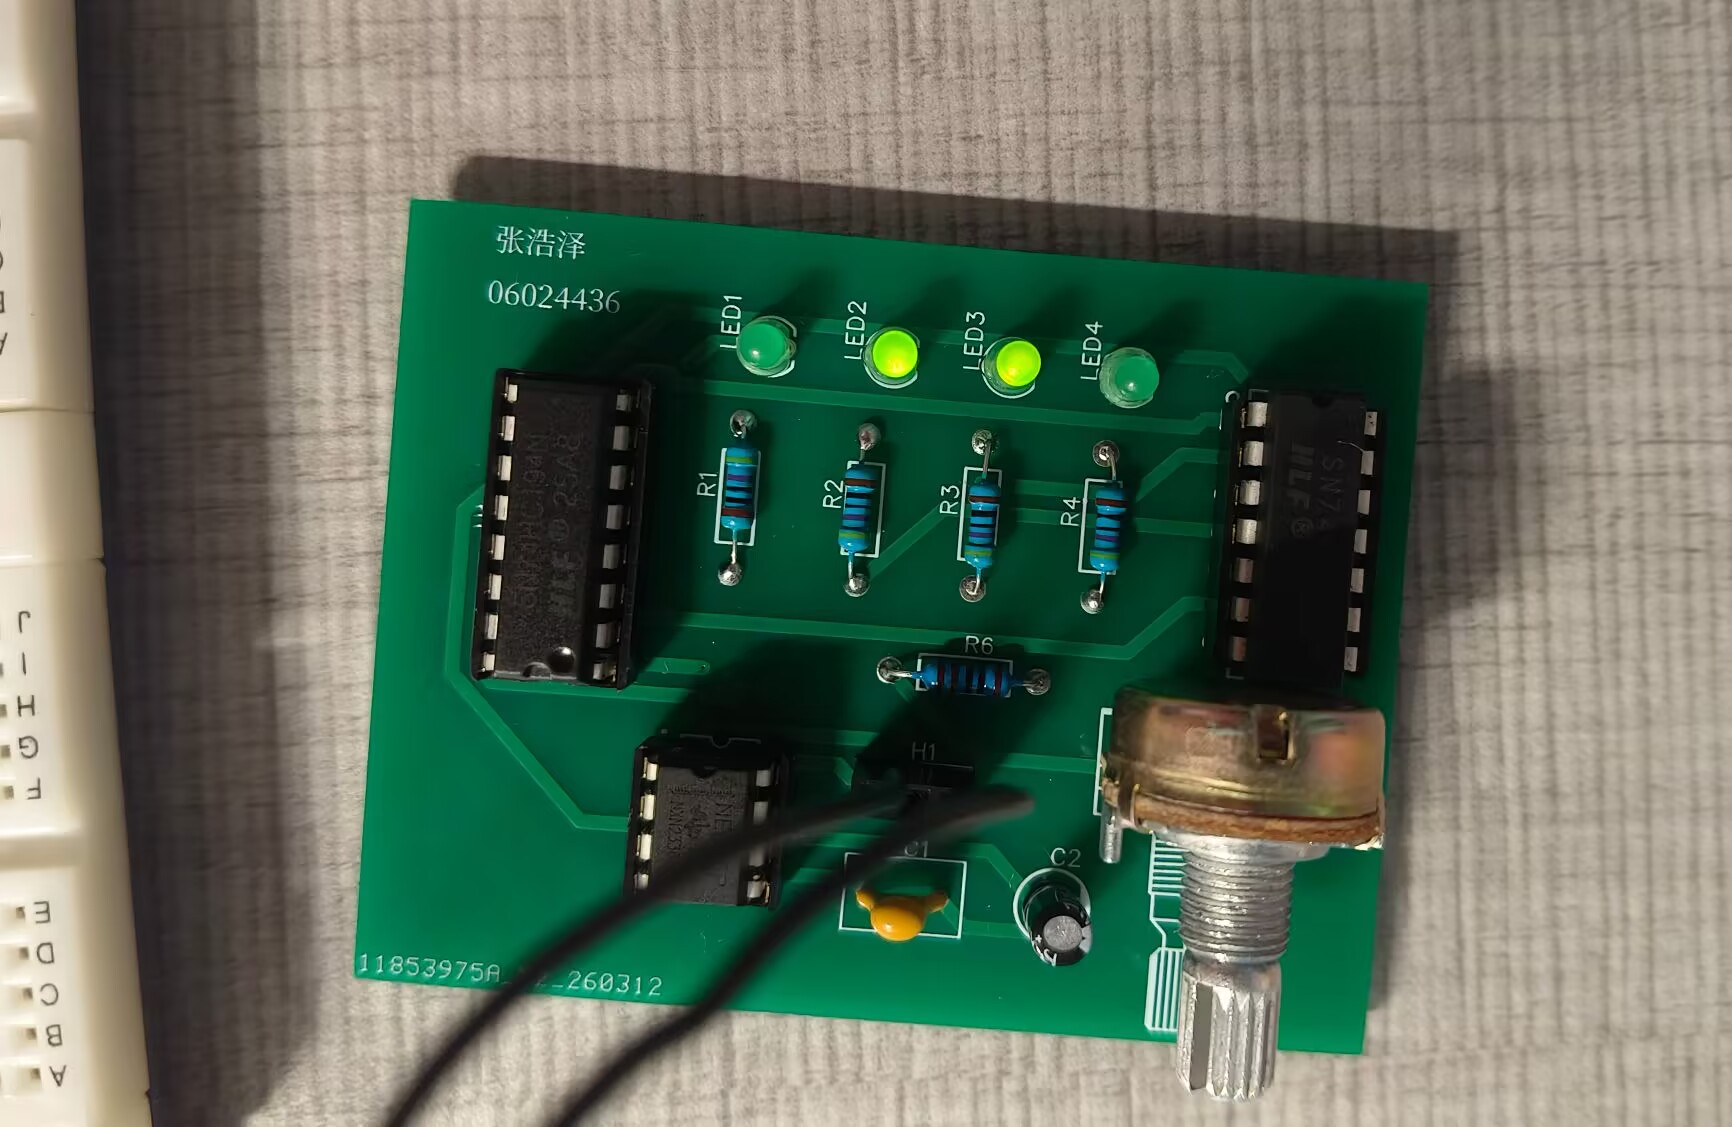
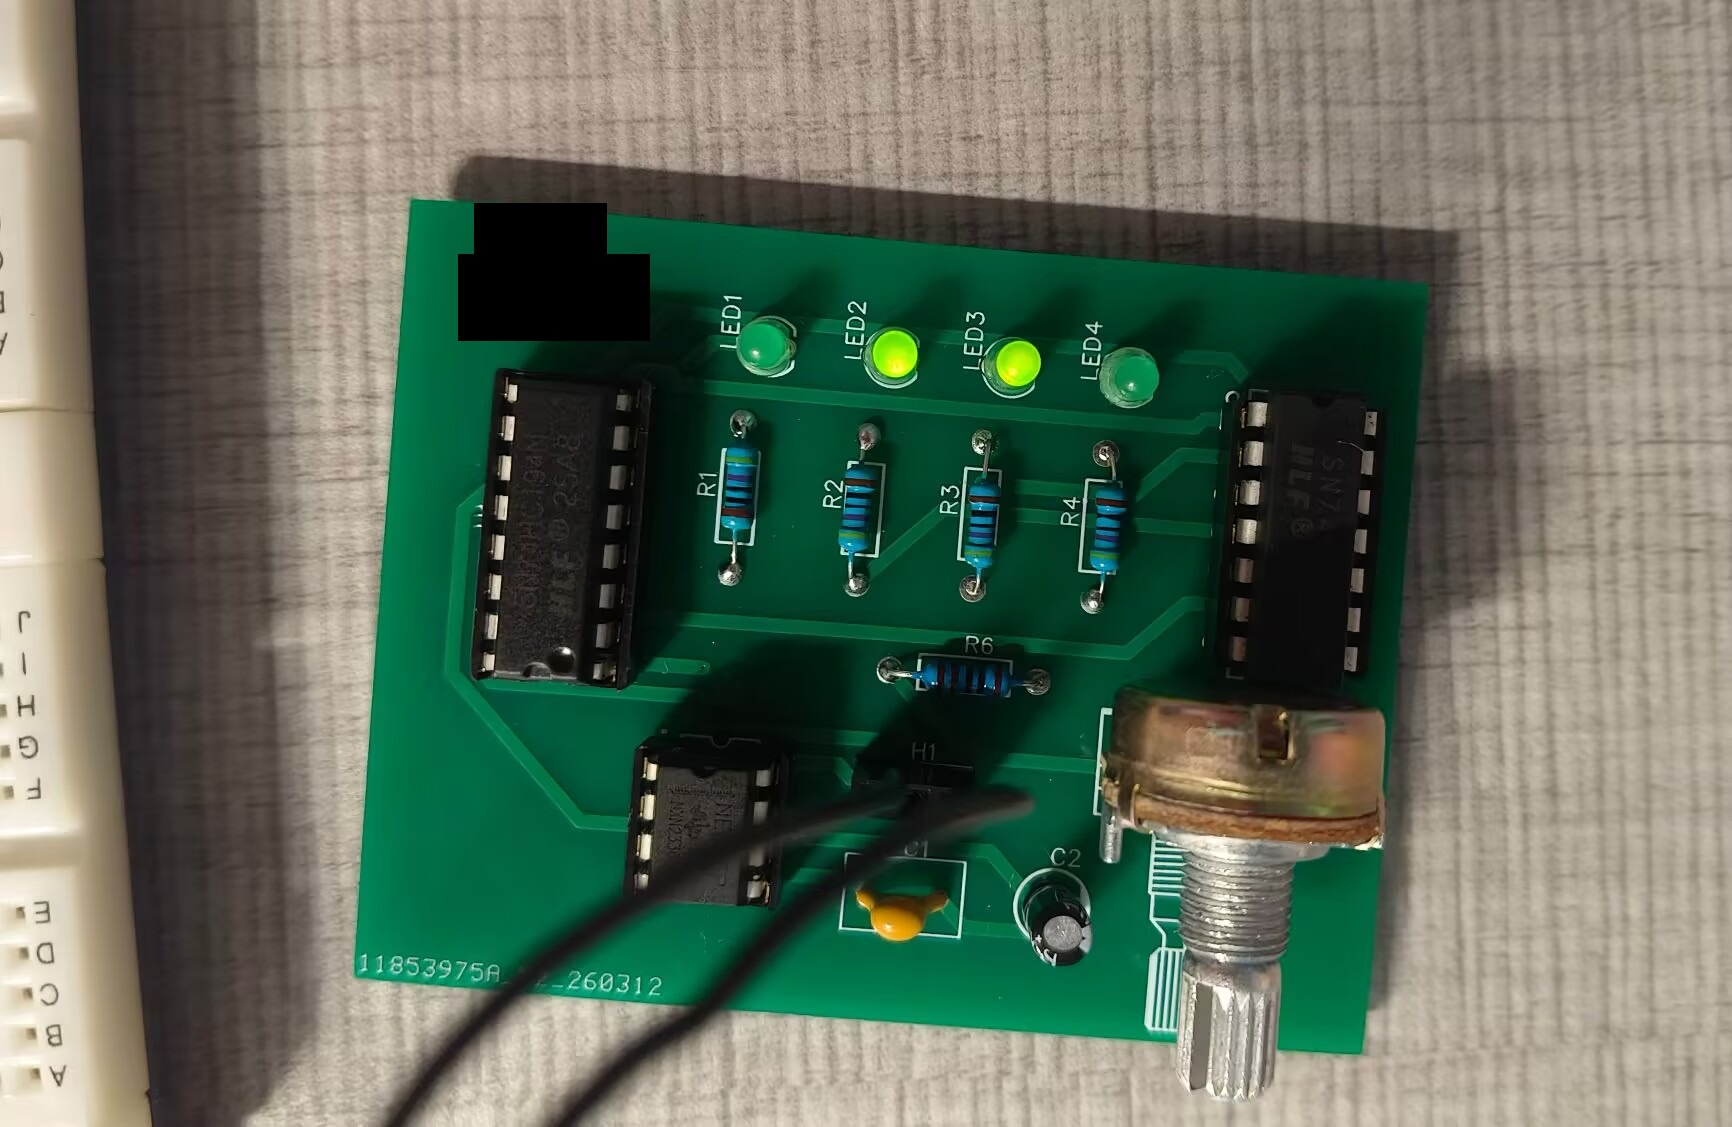
chore: redact student ID and names from lab report posts and images

Changed region(s): [[0.2494, 0.1553, 0.3741, 0.3106]]

diff --git a/src/content/posts/Novel/type of classical novel.md b/src/content/posts/Novel/type of classical novel.md
@@ -14,7 +14,7 @@ draft: false
 
 # 《剪灯新话》------谈《牡丹灯记》里的爱情
 
-姓名：zhz 学号：06024436
+姓名：zhz 学号：（已隐去）
 
 课堂上听完老师解说的《牡丹灯记》之后，我的脑子里一直在盘旋着一个问题：如果你深爱的那个人，有一天你发现她不是人，而是鬼，你还会继续爱下去吗？这个问题看似荒诞，又像是只能出现在志怪小说里的情节，但实际上它问得很现实------我们对感情的坚持到底有多强，当遇到外界压力时，我们真的能守住自己的心吗？
 

diff --git a/src/content/posts/Experiment of circuit/Circuit.md b/src/content/posts/Experiment of circuit/Circuit.md
@@ -26,7 +26,7 @@ draft: false
 
 院 （系）：电子科学与工程学院 专业：电子科学与技术
 
-姓 名： <u>zhz</u> 学 号： <u>06024436</u>
+姓 名： <u>zhz</u> 学 号： <u>（已隐去）</u>
 
 实 验 室: <u>403室</u> 实验组别：
 

diff --git a/src/content/posts/Hall effect/Hall effect report.md b/src/content/posts/Hall effect/Hall effect report.md
@@ -17,7 +17,7 @@ draft: false
 指导教师：xxx
 
 姓名：zhz  
-学号：06024436  
+学号：（已隐去）  
 桌号：26  
 日期：2025年10月27日
 
